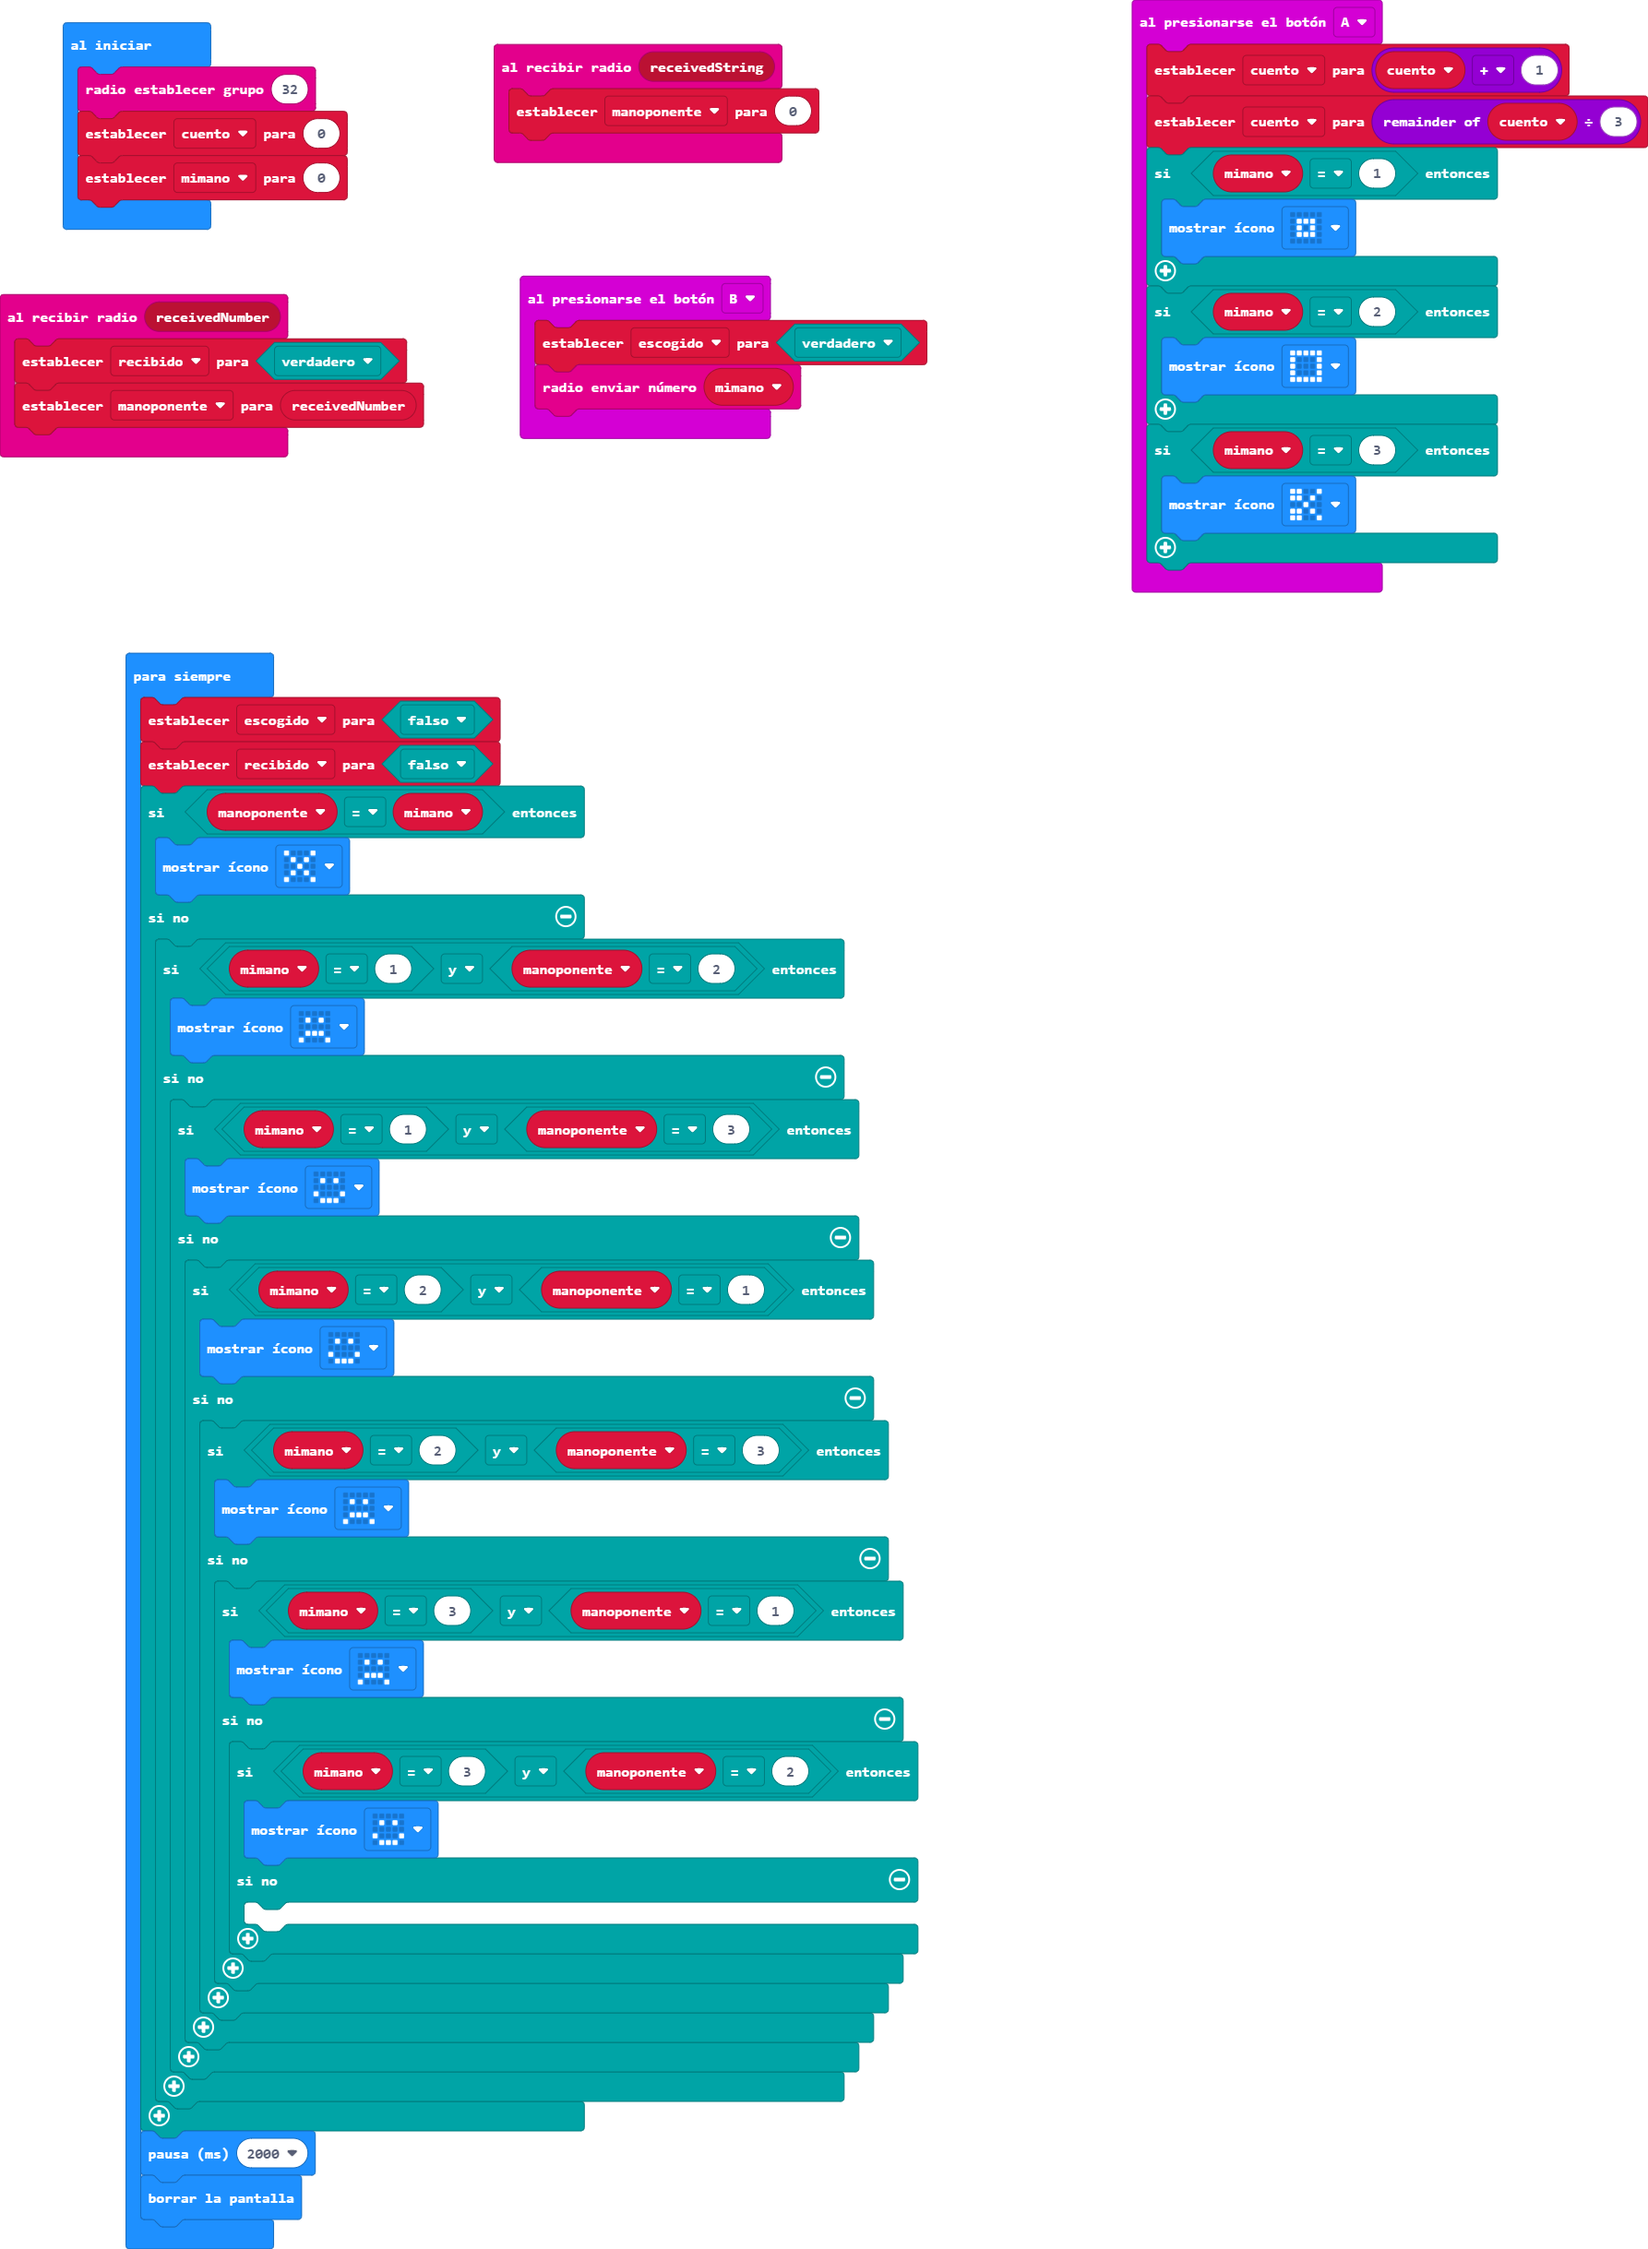
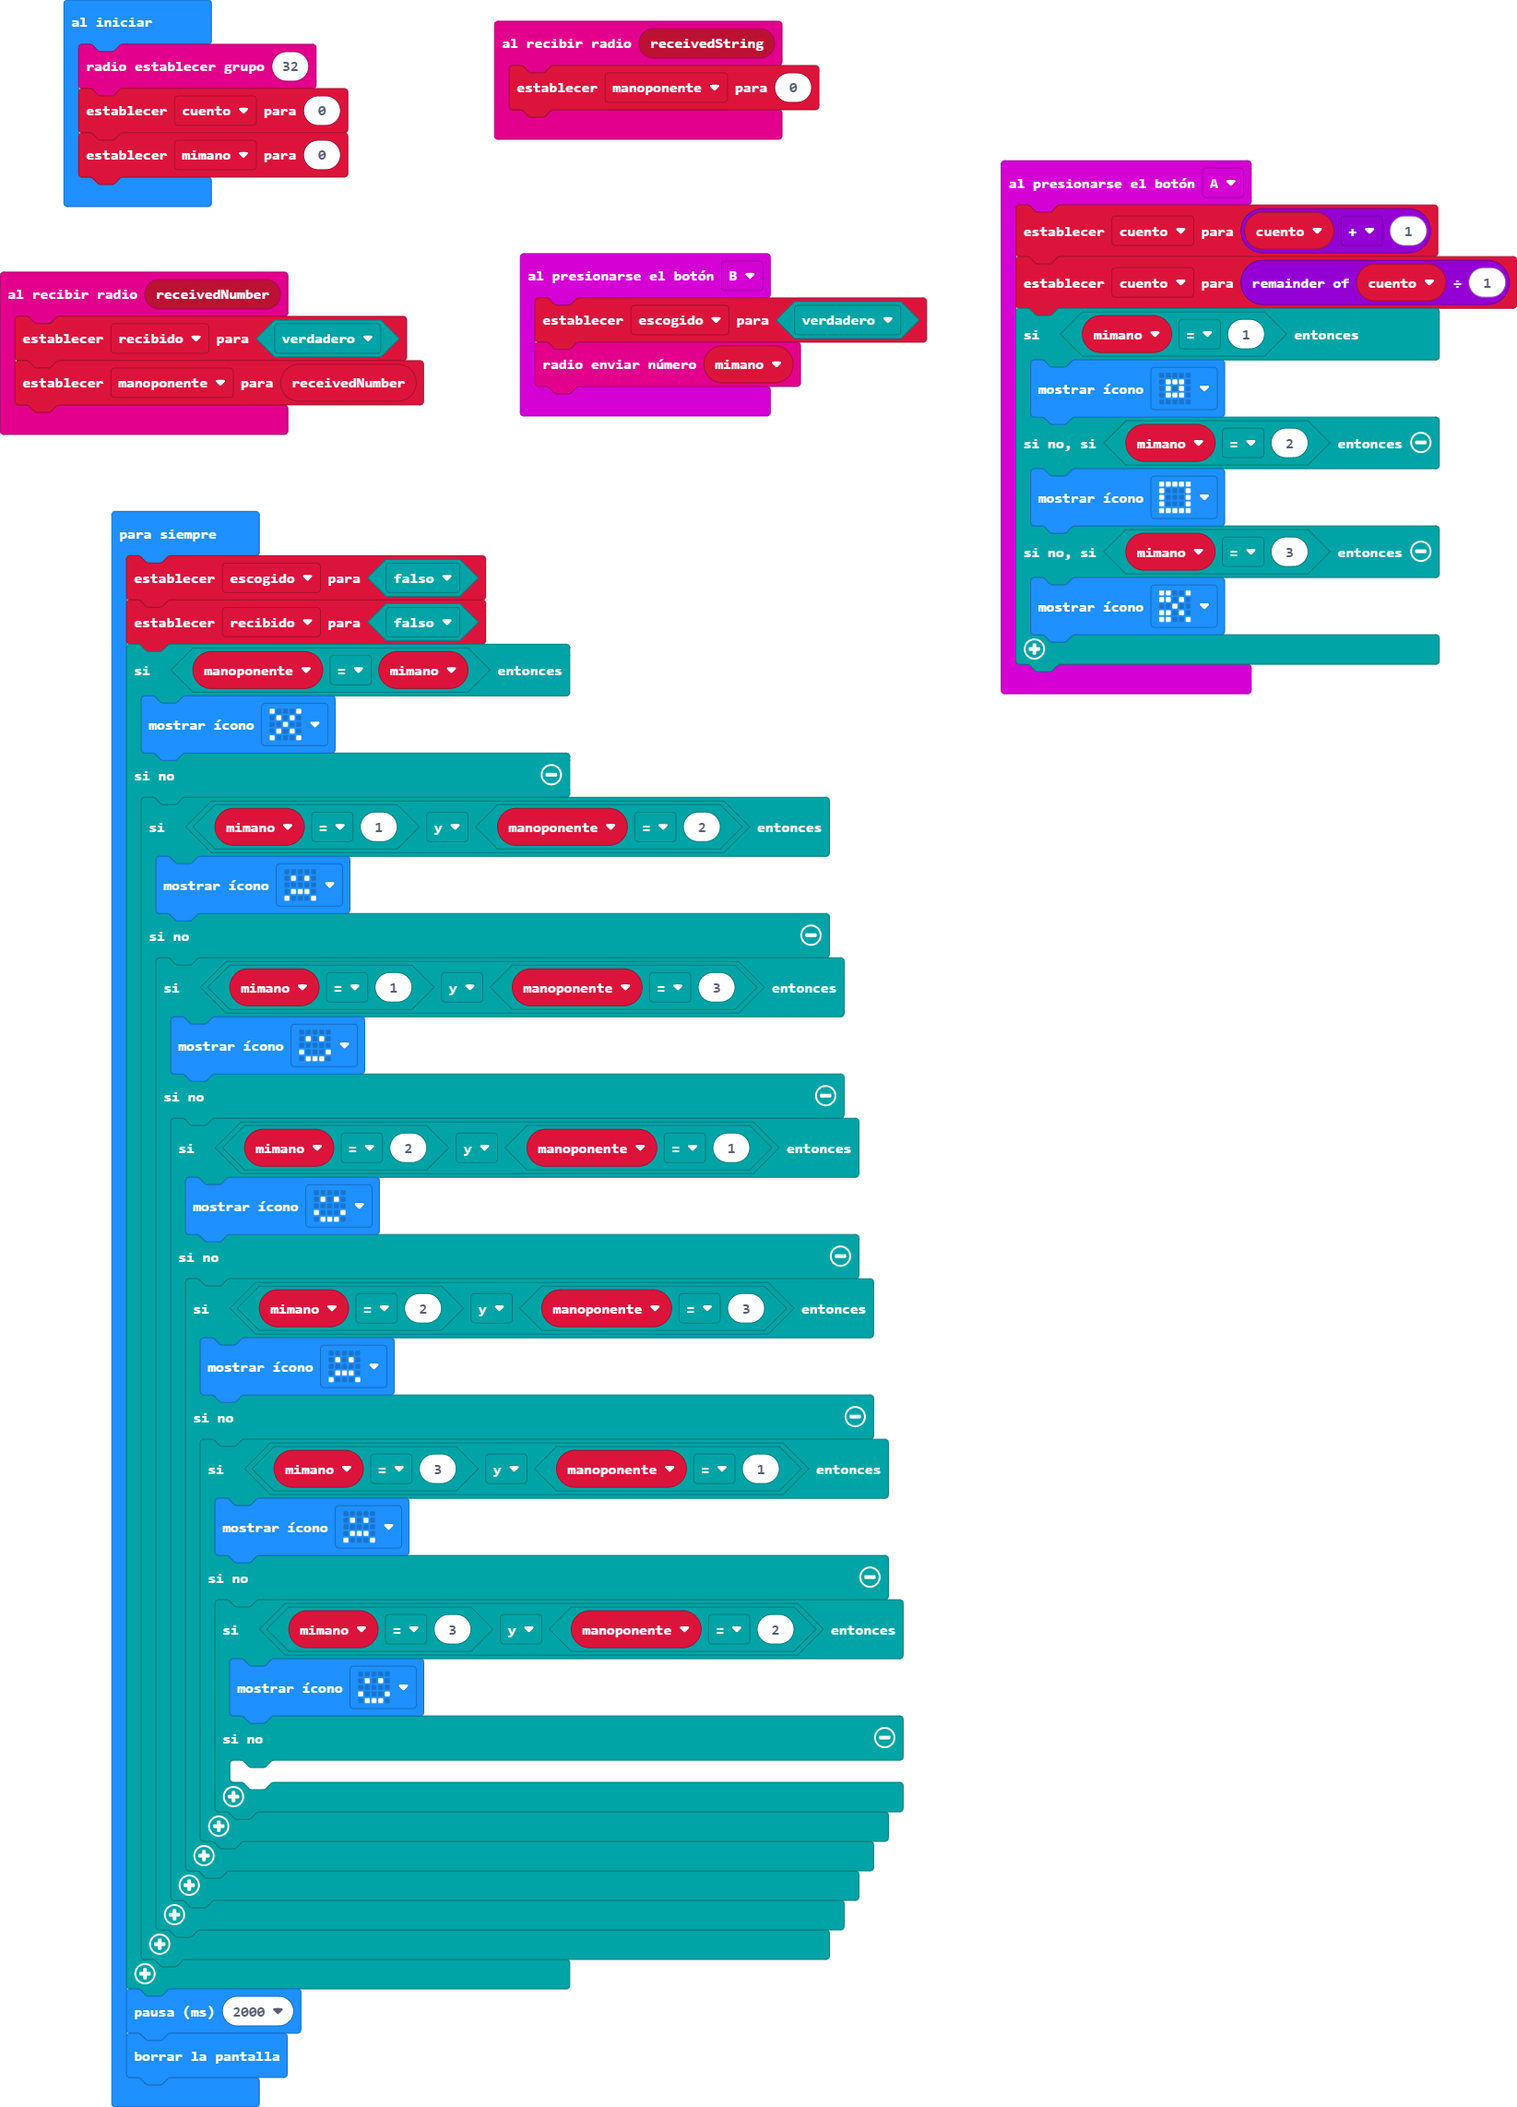
Actualizar main.blocks, main.ts

diff --git a/main.ts b/main.ts
@@ -4,14 +4,12 @@ radio.onReceivedNumber(function (receivedNumber) {
 })
 input.onButtonPressed(Button.A, function () {
     cuento = cuento + 1
-    cuento = cuento % 3
+    cuento = cuento % 1
     if (mimano == 1) {
         basic.showIcon(IconNames.SmallSquare)
-    }
-    if (mimano == 2) {
+    } else if (mimano == 2) {
         basic.showIcon(IconNames.Square)
-    }
-    if (mimano == 3) {
+    } else if (mimano == 3) {
         basic.showIcon(IconNames.Scissors)
     }
 })
